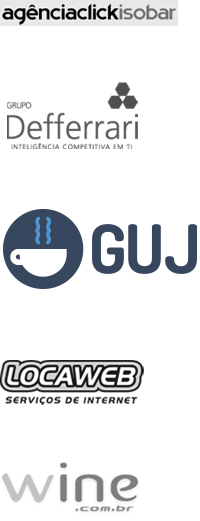
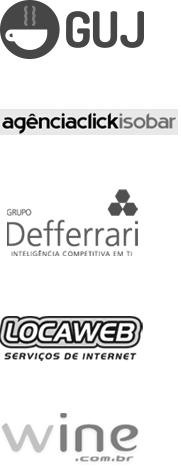
changing GUJ.png (color and size)

diff --git a/vraptor-site/content/css/home.css b/vraptor-site/content/css/home.css
@@ -18,30 +18,31 @@ footer h1 {
 }
 
 .who-uses .agenciaclick {
-  background-position: 0 0;
-  width: 179px;
-  height: 27px;
+  background-position: 0 -109px; 
+  width: 181px; 
+  height: 26px;
 }
 
 .who-uses .defferrari {
-  background-position: 0 -77px;
-  width: 144px; height: 76px;
+  background-position: 0 -185px; 
+  width: 142px; 
+  height: 78px;
 }
 
 .who-uses .guj {
-  background-position: 0 -203px;
-  width: 200px;
-  height: 100px;
+  background-position: 0 0; 
+  width: 144px; 
+  height: 59px;
 }
 
 .who-uses .locaweb {
-  background-position: 0 -353px;
-  width: 145px;
-  height: 55px;
+  background-position: 0 -313px; 
+  width: 146px; 
+  height: 50px;
 }
 
 .who-uses .wine {
-  background-position: 0 -458px;
-  width: 143px;
-  height: 63px;
+  background-position: 0 -413px; 
+  width: 139px; 
+  height: 56px;
 }
